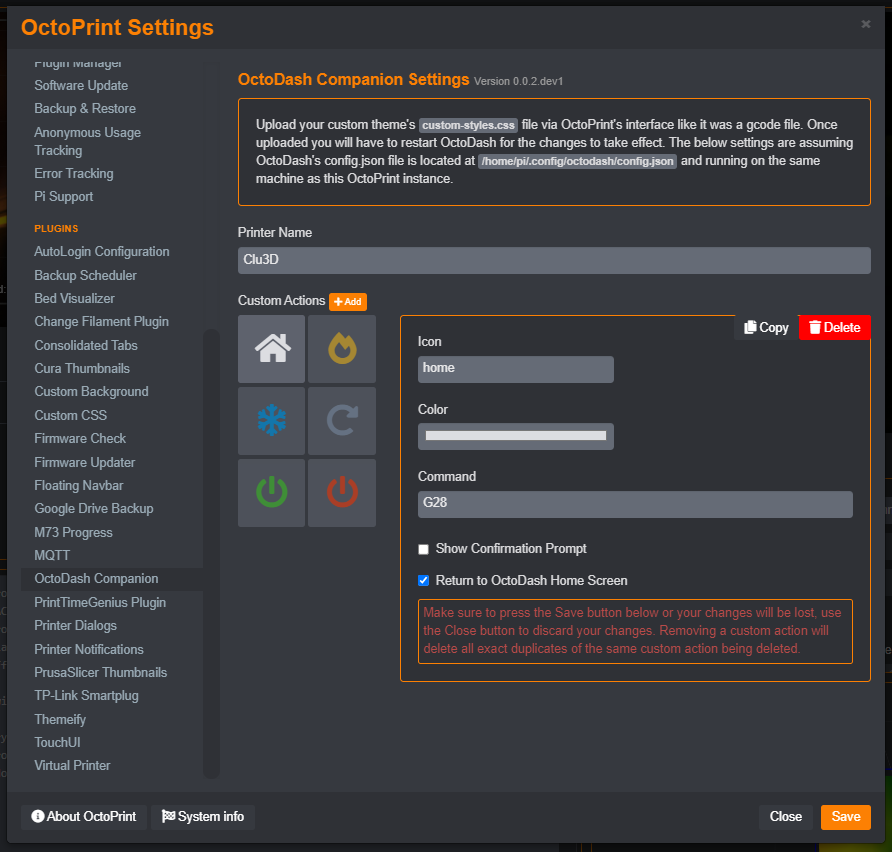
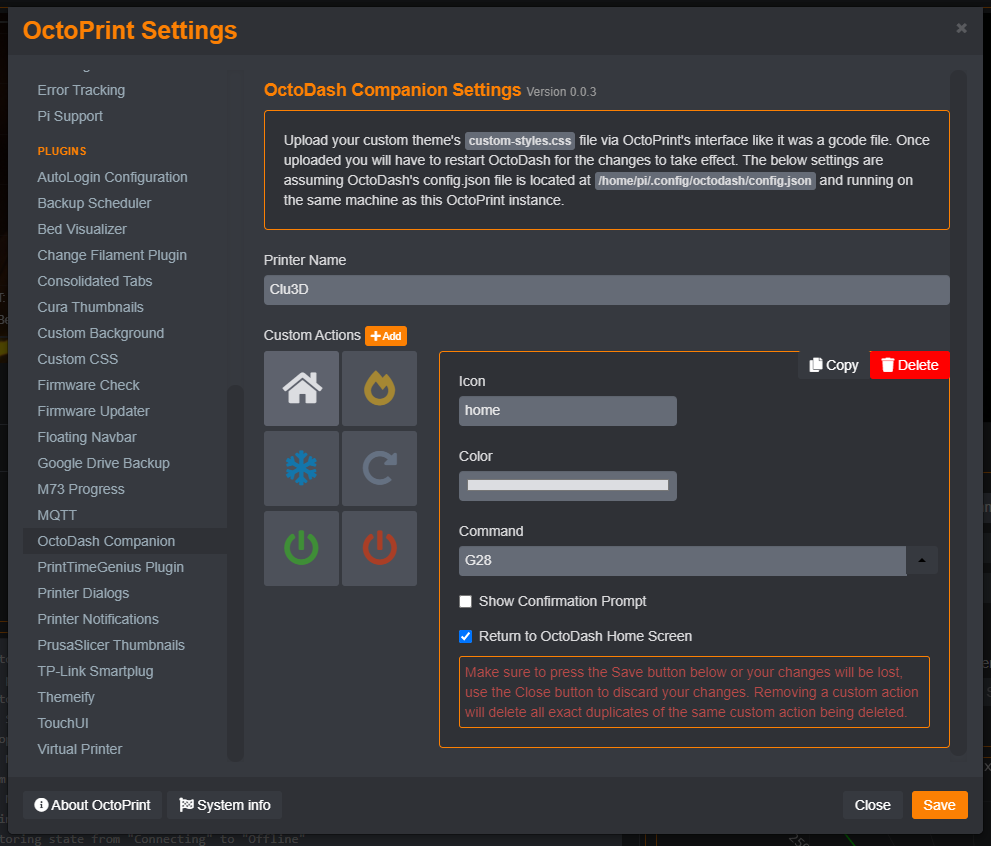
0.0.3 (#5)
* added dynamic webcam support (pulls stream URL and flip/rotation options from OctoPrint's settings)
* added pre-defined custom actions dropup menu for filling in command

diff --git a/octoprint_octodashcompanion/static/js/octodashcompanion.js b/octoprint_octodashcompanion/static/js/octodashcompanion.js
@@ -22,6 +22,14 @@ $(function() {
             self.settingsViewModel.settings.plugins.octodashcompanion.config.octodash.customActions.push(self.selected_command());
         };
 
+        self.add_custom_action_token = function(data, event) {
+            if(event.currentTarget.text === '[!WEBCAM]') {
+                data.command('[!WEB]http://localhost/plugin/octodashcompanion/webcam');
+            } else {
+                data.command(event.currentTarget.text);
+            }
+        };
+
         self.remove_custom_action = function(data) {
             self.selected_command(null);
             self.settingsViewModel.settings.plugins.octodashcompanion.config.octodash.customActions.remove(data);

diff --git a/octoprint_octodashcompanion/static/css/octodashcompanion.css b/octoprint_octodashcompanion/static/css/octodashcompanion.css
@@ -21,6 +21,16 @@
     font-size: 12px;
 }
 
+#settings_plugin_octodashcompanion_form .input-append .add-on:last-child, .input-append .btn:last-child, .input-append .btn-group:last-child>.dropdown-toggle {
+    -webkit-border-radius: 0 4px 4px 0;
+    -moz-border-radius: 0 4px 4px 0;
+    border-radius: 0 4px 4px 0;
+}
+
+#settings_plugin_octodashcompanion_form .input-append .input-block-level {
+    width: 95%;
+}
+
 .themeify.discorded #settings_plugin_octodashcompanion div.well {
     background-color: #2f3136;
     border-color: #2f3136;

diff --git a/octoprint_octodashcompanion/__init__.py b/octoprint_octodashcompanion/__init__.py
@@ -1,6 +1,8 @@
 # coding=utf-8
 from __future__ import absolute_import
 
+from flask import make_response, render_template
+
 import octoprint.plugin
 import octoprint.filemanager.util
 from octoprint.filemanager import FileDestinations
@@ -16,7 +18,8 @@ import json
 class OctodashcompanionPlugin(octoprint.plugin.SettingsPlugin,
 							  octoprint.plugin.AssetPlugin,
 							  octoprint.plugin.TemplatePlugin,
-							  octoprint.plugin.EventHandlerPlugin):
+							  octoprint.plugin.EventHandlerPlugin,
+							  octoprint.plugin.BlueprintPlugin):
 
 	def __init__(self):
 		self.config_file = normalize("{}/config.json".format(_default_configdir("octodash")))
@@ -72,6 +75,28 @@ class OctodashcompanionPlugin(octoprint.plugin.SettingsPlugin,
 				shutil.copyfile(source_file, destination_file)
 				self._logger.info("attempting removal of {}".format(source_file))
 				self._file_manager.remove_file(FileDestinations.LOCAL, payload["path"])
+
+	# ~~ BluePrint routes
+	@octoprint.plugin.BlueprintPlugin.route("webcam")
+	def webcam_route(self):
+		webcam_url = self._settings.global_get(["webcam", "stream"])
+
+		# Anything passed here can be used as {{ variable_name }} in the template
+		render_kwargs = {
+			"webcam_url": webcam_url
+		}
+		if self._settings.global_get_boolean(["webcam", "flipH"]):
+			render_kwargs["webcam_flip_horizontal"] = "flipH"
+		if self._settings.global_get_boolean(["webcam", "flipV"]):
+			render_kwargs["webcam_flip_vertical"] = "flipV"
+		if self._settings.global_get_boolean(["webcam", "rotate90"]):
+			render_kwargs["webcam_rotate_ccw"] = "rotate90"
+		response = make_response(render_template("webcam.jinja2", **render_kwargs))
+		response.headers["X-Frame-Options"] = ""
+		return response
+
+	def is_blueprint_protected(self):
+		return False
 
 	# ~~ AssetPlugin mixin
 

diff --git a/setup.py b/setup.py
@@ -14,7 +14,7 @@ plugin_package = "octoprint_octodashcompanion"
 plugin_name = "OctoDash Companion"
 
 # The plugin's version. Can be overwritten within OctoPrint's internal data via __plugin_version__ in the plugin module
-plugin_version = "0.0.2"
+plugin_version = "0.0.3"
 
 # The plugin's description. Can be overwritten within OctoPrint's internal data via __plugin_description__ in the plugin
 # module
